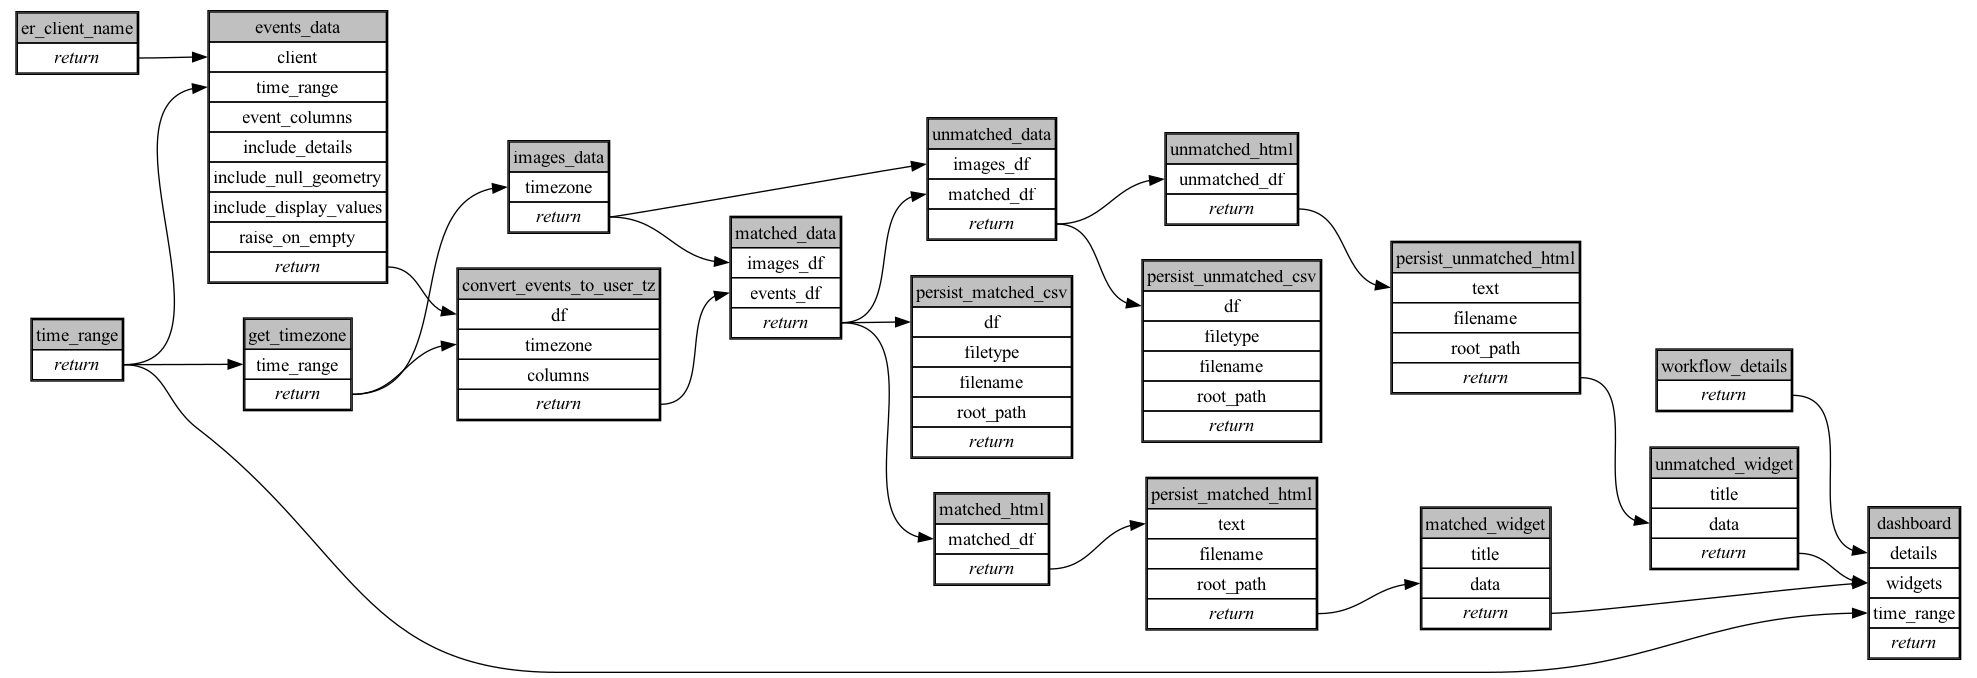
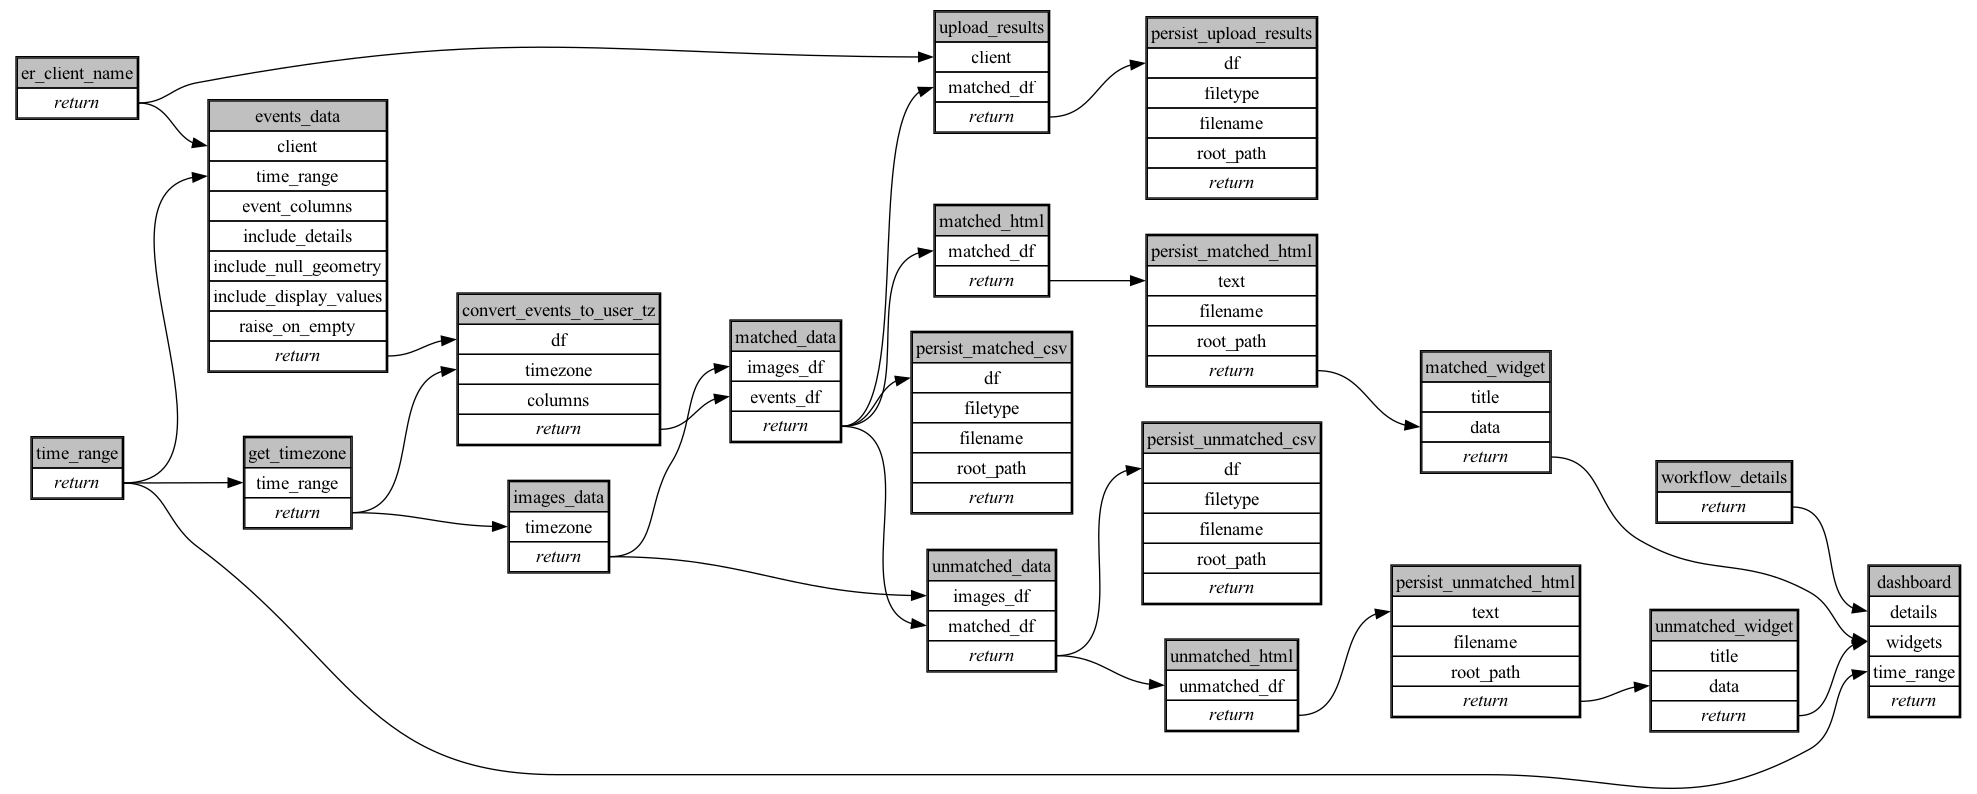
recompile the workflow

diff --git a/workflows/aerial_images/ecoscope-workflows-aerial-images-workflow/ecoscope_workflows_aerial_images_workflow/dags/run_async_mock_io.py b/workflows/aerial_images/ecoscope-workflows-aerial-images-workflow/ecoscope_workflows_aerial_images_workflow/dags/run_async_mock_io.py
@@ -53,6 +53,9 @@ from ecoscope_workflows_ext_ste.tasks import (
 from ecoscope_workflows_ext_ste.tasks import (
     match_images_to_events as match_images_to_events,
 )
+from ecoscope_workflows_ext_ste.tasks import (
+    upload_images_to_er_events as upload_images_to_er_events,
+)
 
 from ..params import Params
 
@@ -80,6 +83,8 @@ def main(params: Params):
         "unmatched_html": ["unmatched_data"],
         "persist_unmatched_html": ["unmatched_html"],
         "unmatched_widget": ["persist_unmatched_html"],
+        "upload_results": ["er_client_name", "matched_data"],
+        "persist_upload_results": ["upload_results"],
         "dashboard": [
             "workflow_details",
             "matched_widget",
@@ -429,6 +434,48 @@ def main(params: Params):
                 "data": DependsOn("persist_unmatched_html"),
             }
             | (params_dict.get("unmatched_widget") or {}),
+            method="call",
+        ),
+        "upload_results": Node(
+            async_task=upload_images_to_er_events.validate()
+            .set_task_instance_id("upload_results")
+            .handle_errors()
+            .with_tracing()
+            .skipif(
+                conditions=[
+                    any_is_empty_df,
+                    any_dependency_skipped,
+                ],
+                unpack_depth=1,
+            )
+            .set_executor("lithops"),
+            partial={
+                "client": DependsOn("er_client_name"),
+                "matched_df": DependsOn("matched_data"),
+            }
+            | (params_dict.get("upload_results") or {}),
+            method="call",
+        ),
+        "persist_upload_results": Node(
+            async_task=persist_df.validate()
+            .set_task_instance_id("persist_upload_results")
+            .handle_errors()
+            .with_tracing()
+            .skipif(
+                conditions=[
+                    any_is_empty_df,
+                    any_dependency_skipped,
+                ],
+                unpack_depth=1,
+            )
+            .set_executor("lithops"),
+            partial={
+                "df": DependsOn("upload_results"),
+                "filetype": "csv",
+                "filename": "aerial_image_upload_results",
+                "root_path": os.environ["ECOSCOPE_WORKFLOWS_RESULTS"],
+            }
+            | (params_dict.get("persist_upload_results") or {}),
             method="call",
         ),
         "dashboard": Node(

diff --git a/workflows/aerial_images/ecoscope-workflows-aerial-images-workflow/ecoscope_workflows_aerial_images_workflow/dags/run_async.py b/workflows/aerial_images/ecoscope-workflows-aerial-images-workflow/ecoscope_workflows_aerial_images_workflow/dags/run_async.py
@@ -39,6 +39,9 @@ from ecoscope_workflows_ext_ste.tasks import (
 from ecoscope_workflows_ext_ste.tasks import (
     process_aerial_images as process_aerial_images,
 )
+from ecoscope_workflows_ext_ste.tasks import (
+    upload_images_to_er_events as upload_images_to_er_events,
+)
 
 from ..params import Params
 
@@ -64,6 +67,8 @@ def main(params: Params):
         "unmatched_html": ["unmatched_data"],
         "persist_unmatched_html": ["unmatched_html"],
         "unmatched_widget": ["persist_unmatched_html"],
+        "upload_results": ["er_client_name", "matched_data"],
+        "persist_upload_results": ["upload_results"],
         "dashboard": [
             "workflow_details",
             "matched_widget",
@@ -413,6 +418,48 @@ def main(params: Params):
                 "data": DependsOn("persist_unmatched_html"),
             }
             | (params_dict.get("unmatched_widget") or {}),
+            method="call",
+        ),
+        "upload_results": Node(
+            async_task=upload_images_to_er_events.validate()
+            .set_task_instance_id("upload_results")
+            .handle_errors()
+            .with_tracing()
+            .skipif(
+                conditions=[
+                    any_is_empty_df,
+                    any_dependency_skipped,
+                ],
+                unpack_depth=1,
+            )
+            .set_executor("lithops"),
+            partial={
+                "client": DependsOn("er_client_name"),
+                "matched_df": DependsOn("matched_data"),
+            }
+            | (params_dict.get("upload_results") or {}),
+            method="call",
+        ),
+        "persist_upload_results": Node(
+            async_task=persist_df.validate()
+            .set_task_instance_id("persist_upload_results")
+            .handle_errors()
+            .with_tracing()
+            .skipif(
+                conditions=[
+                    any_is_empty_df,
+                    any_dependency_skipped,
+                ],
+                unpack_depth=1,
+            )
+            .set_executor("lithops"),
+            partial={
+                "df": DependsOn("upload_results"),
+                "filetype": "csv",
+                "filename": "aerial_image_upload_results",
+                "root_path": os.environ["ECOSCOPE_WORKFLOWS_RESULTS"],
+            }
+            | (params_dict.get("persist_upload_results") or {}),
             method="call",
         ),
         "dashboard": Node(

diff --git a/workflows/aerial_images/ecoscope-workflows-aerial-images-workflow/ecoscope_workflows_aerial_images_workflow/dags/run_sequential_mock_io.py b/workflows/aerial_images/ecoscope-workflows-aerial-images-workflow/ecoscope_workflows_aerial_images_workflow/dags/run_sequential_mock_io.py
@@ -52,6 +52,9 @@ from ecoscope_workflows_ext_ste.tasks import (
 from ecoscope_workflows_ext_ste.tasks import (
     match_images_to_events as match_images_to_events,
 )
+from ecoscope_workflows_ext_ste.tasks import (
+    upload_images_to_er_events as upload_images_to_er_events,
+)
 
 from ..params import Params
 
@@ -387,6 +390,48 @@ def main(params: Params):
             title="Unmatched Images",
             data=persist_unmatched_html,
             **(params_dict.get("unmatched_widget") or {}),
+        )
+        .call()
+    )
+
+    upload_results = (
+        upload_images_to_er_events.validate()
+        .set_task_instance_id("upload_results")
+        .handle_errors()
+        .with_tracing()
+        .skipif(
+            conditions=[
+                any_is_empty_df,
+                any_dependency_skipped,
+            ],
+            unpack_depth=1,
+        )
+        .partial(
+            client=er_client_name,
+            matched_df=matched_data,
+            **(params_dict.get("upload_results") or {}),
+        )
+        .call()
+    )
+
+    persist_upload_results = (
+        persist_df.validate()
+        .set_task_instance_id("persist_upload_results")
+        .handle_errors()
+        .with_tracing()
+        .skipif(
+            conditions=[
+                any_is_empty_df,
+                any_dependency_skipped,
+            ],
+            unpack_depth=1,
+        )
+        .partial(
+            df=upload_results,
+            filetype="csv",
+            filename="aerial_image_upload_results",
+            root_path=os.environ["ECOSCOPE_WORKFLOWS_RESULTS"],
+            **(params_dict.get("persist_upload_results") or {}),
         )
         .call()
     )

diff --git a/workflows/aerial_images/ecoscope-workflows-aerial-images-workflow/ecoscope_workflows_aerial_images_workflow/dags/run_sequential.py b/workflows/aerial_images/ecoscope-workflows-aerial-images-workflow/ecoscope_workflows_aerial_images_workflow/dags/run_sequential.py
@@ -38,6 +38,9 @@ from ecoscope_workflows_ext_ste.tasks import (
 from ecoscope_workflows_ext_ste.tasks import (
     process_aerial_images as process_aerial_images,
 )
+from ecoscope_workflows_ext_ste.tasks import (
+    upload_images_to_er_events as upload_images_to_er_events,
+)
 
 from ..params import Params
 
@@ -371,6 +374,48 @@ def main(params: Params):
             title="Unmatched Images",
             data=persist_unmatched_html,
             **(params_dict.get("unmatched_widget") or {}),
+        )
+        .call()
+    )
+
+    upload_results = (
+        upload_images_to_er_events.validate()
+        .set_task_instance_id("upload_results")
+        .handle_errors()
+        .with_tracing()
+        .skipif(
+            conditions=[
+                any_is_empty_df,
+                any_dependency_skipped,
+            ],
+            unpack_depth=1,
+        )
+        .partial(
+            client=er_client_name,
+            matched_df=matched_data,
+            **(params_dict.get("upload_results") or {}),
+        )
+        .call()
+    )
+
+    persist_upload_results = (
+        persist_df.validate()
+        .set_task_instance_id("persist_upload_results")
+        .handle_errors()
+        .with_tracing()
+        .skipif(
+            conditions=[
+                any_is_empty_df,
+                any_dependency_skipped,
+            ],
+            unpack_depth=1,
+        )
+        .partial(
+            df=upload_results,
+            filetype="csv",
+            filename="aerial_image_upload_results",
+            root_path=os.environ["ECOSCOPE_WORKFLOWS_RESULTS"],
+            **(params_dict.get("persist_upload_results") or {}),
         )
         .call()
     )

diff --git a/workflows/aerial_images/ecoscope-workflows-aerial-images-workflow/ecoscope_workflows_aerial_images_workflow/dags/jupytext.py b/workflows/aerial_images/ecoscope-workflows-aerial-images-workflow/ecoscope_workflows_aerial_images_workflow/dags/jupytext.py
@@ -48,6 +48,9 @@ from ecoscope_workflows_ext_ste.tasks import (
 from ecoscope_workflows_ext_ste.tasks import (
     process_aerial_images as process_aerial_images,
 )
+from ecoscope_workflows_ext_ste.tasks import (
+    upload_images_to_er_events as upload_images_to_er_events,
+)
 
 # %% [markdown]
 # ## Set Workflow Details
@@ -593,6 +596,68 @@ unmatched_widget = (
     )
     .partial(
         title="Unmatched Images", data=persist_unmatched_html, **unmatched_widget_params
+    )
+    .call()
+)
+
+
+# %% [markdown]
+# ## Upload Images to EarthRanger Events
+
+# %%
+# parameters
+
+upload_results_params = dict()
+
+# %%
+# call the task
+
+
+upload_results = (
+    upload_images_to_er_events.set_task_instance_id("upload_results")
+    .handle_errors()
+    .with_tracing()
+    .skipif(
+        conditions=[
+            any_is_empty_df,
+            any_dependency_skipped,
+        ],
+        unpack_depth=1,
+    )
+    .partial(client=er_client_name, matched_df=matched_data, **upload_results_params)
+    .call()
+)
+
+
+# %% [markdown]
+# ##
+
+# %%
+# parameters
+
+persist_upload_results_params = dict()
+
+# %%
+# call the task
+
+
+persist_upload_results = (
+    persist_df.set_task_instance_id("persist_upload_results")
+    .handle_errors()
+    .with_tracing()
+    .skipif(
+        conditions=[
+            any_is_empty_df,
+            any_dependency_skipped,
+        ],
+        unpack_depth=1,
+    )
+    .partial(
+        df=upload_results,
+        filetype="csv",
+        filename="aerial_image_upload_results",
+        root_path=os.environ["ECOSCOPE_WORKFLOWS_RESULTS"],
+        **persist_upload_results_params,
     )
     .call()
 )

diff --git a/workflows/aerial_images/ecoscope-workflows-aerial-images-workflow/README.md b/workflows/aerial_images/ecoscope-workflows-aerial-images-workflow/README.md
@@ -5,8 +5,8 @@
 
 ```yaml
 # fingerprint:
-artifacts_sha256_basic: 6fe32c6a4bf56e8def8e5d5a1a1422e681fb663032fd58cd51163720460969c7
-artifacts_sha256_strict: c4ff8393df8a969c5afd5c75c7dcce020ea9bba8873a38f47a49b89bdeea82af
+artifacts_sha256_basic: 0ac61a5a7614ecc1d634c848e0e187e5727cf36760c3967bb0ad306c51d84088
+artifacts_sha256_strict: ef052f7526a49673e757bc578e71f509ad10f16ae2847498cb6d2314680d9f95
 installed_requirements:
 - channel: https://repo.prefix.dev/ecoscope-workflows/
   name: ecoscope-workflows-core
@@ -19,9 +19,9 @@ installed_requirements:
   version: {version: ==0.0.43}
 - channel: file:///tmp/ecoscope-workflows-custom/release/artifacts/
   name: ecoscope-workflows-ext-ste
-  version: {version: ==0.0.20.dev0+g94ec3d891.d20260417}
+  version: {version: ==0.0.20.dev6+g6209edaa5.d20260417}
 params_sha256: 6c9795acbdc04b9b1f02642acdb4e06f029926797b2ebbe4c551422dd9fdae1a
-spec_sha256: 078fc09f8e56eef670e3c16420cb3abf0dbd79cae76cd77c6a935bf48e7400d9
+spec_sha256: fa256a39fa756303ce07b626a1a37c8d3a5c37ae1db681a0f6a088bb2712d943
 
 ```
 
